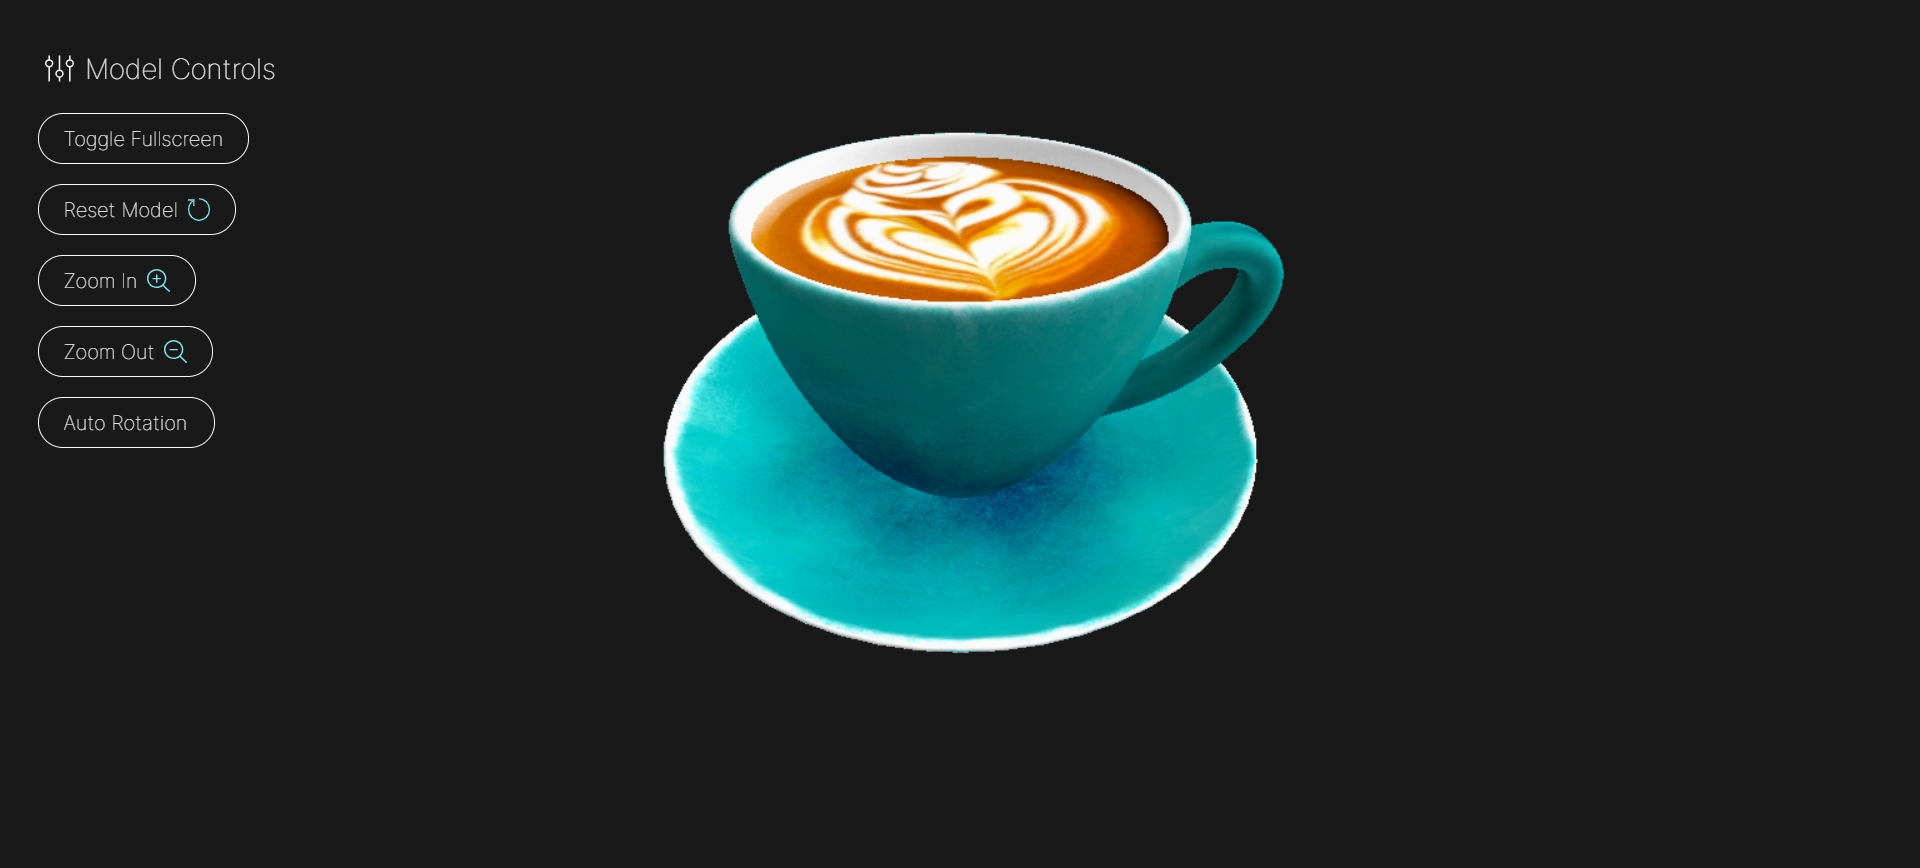
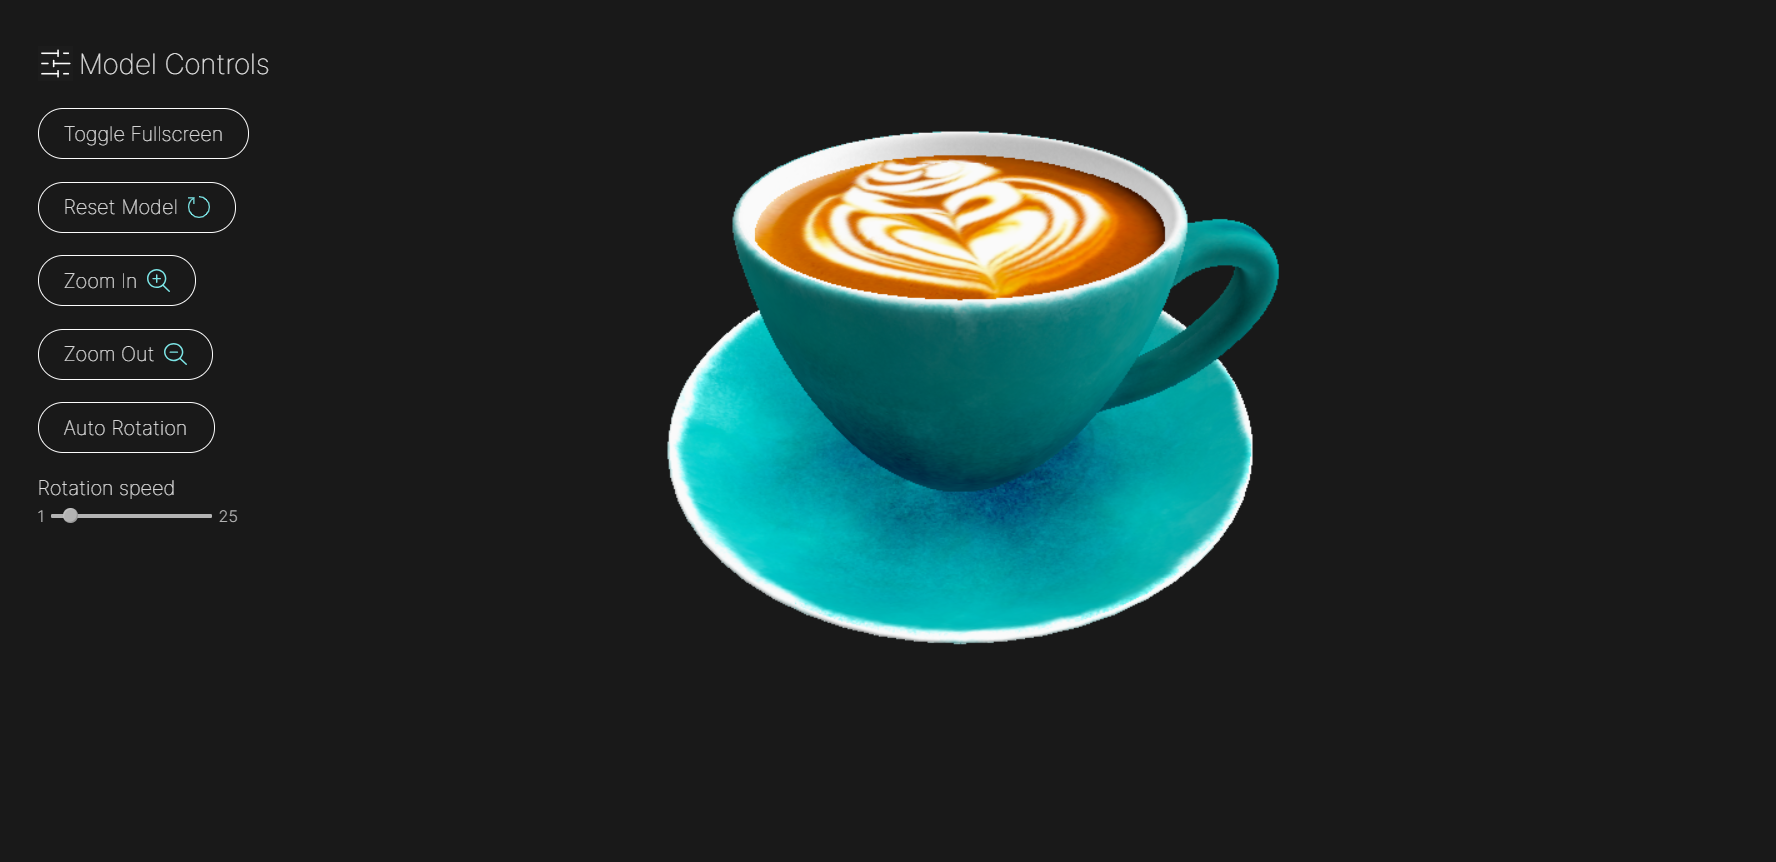
Change styles

diff --git a/public/css/style.css b/public/css/style.css
@@ -47,8 +47,8 @@ input[type="checkbox"] {
 }
 
 #menu-toggle-label img {
-    height: 35px;
-    margin: 0 3px 0 0;
+    height: 28px;
+    margin: 0 5px 0 0;
 }
 
 
@@ -70,7 +70,7 @@ input[type="checkbox"] {
     border: 1px solid #fcfcfc;
     border-radius: 20px;
     padding: 10px 20px;
-    margin-bottom: 16px;
+    margin-bottom: 18px;
     display: flex;
     align-items: center;
     cursor: pointer;
@@ -96,4 +96,49 @@ input[type="checkbox"] {
     background: #7CE5E6;
     color: #191919;
     font-weight: 400;
+}
+
+.rotation-control {
+    display: flex;
+    flex-direction: column;
+    font-size: 16px;
+}
+
+.rotation-control label {
+    margin-bottom: 5px;
+}
+
+.range-slider {
+    display: flex;
+    align-items: center;
+    justify-content: center;
+}
+
+.range-slider span {
+    color: hsl(0, 0%, 70%);
+    font-weight: 300;
+    font-size: 13px;
+}
+
+#rotation-speed-slider {
+    -webkit-appearance: none;
+    appearance: none;
+    height: 3px;
+    background: hsl(0, 0%, 70%);
+    border-radius: 1px;
+    position: relative;
+    margin: 0 5px;
+    cursor: pointer;
+}
+
+#rotation-speed-slider::-webkit-slider-thumb {
+    -webkit-appearance: none;
+    appearance: none;
+    height: 12px;
+    width: 12px;
+    border-radius: 50%;
+    position: relative;
+    background: hsl(0, 0%, 70%);
+    box-shadow: inset 1px 1px 0px rgba(255, 255, 255, 0.2),
+        inset -1px -1px 0px rgba(0, 0, 0, 0.15);
 }
